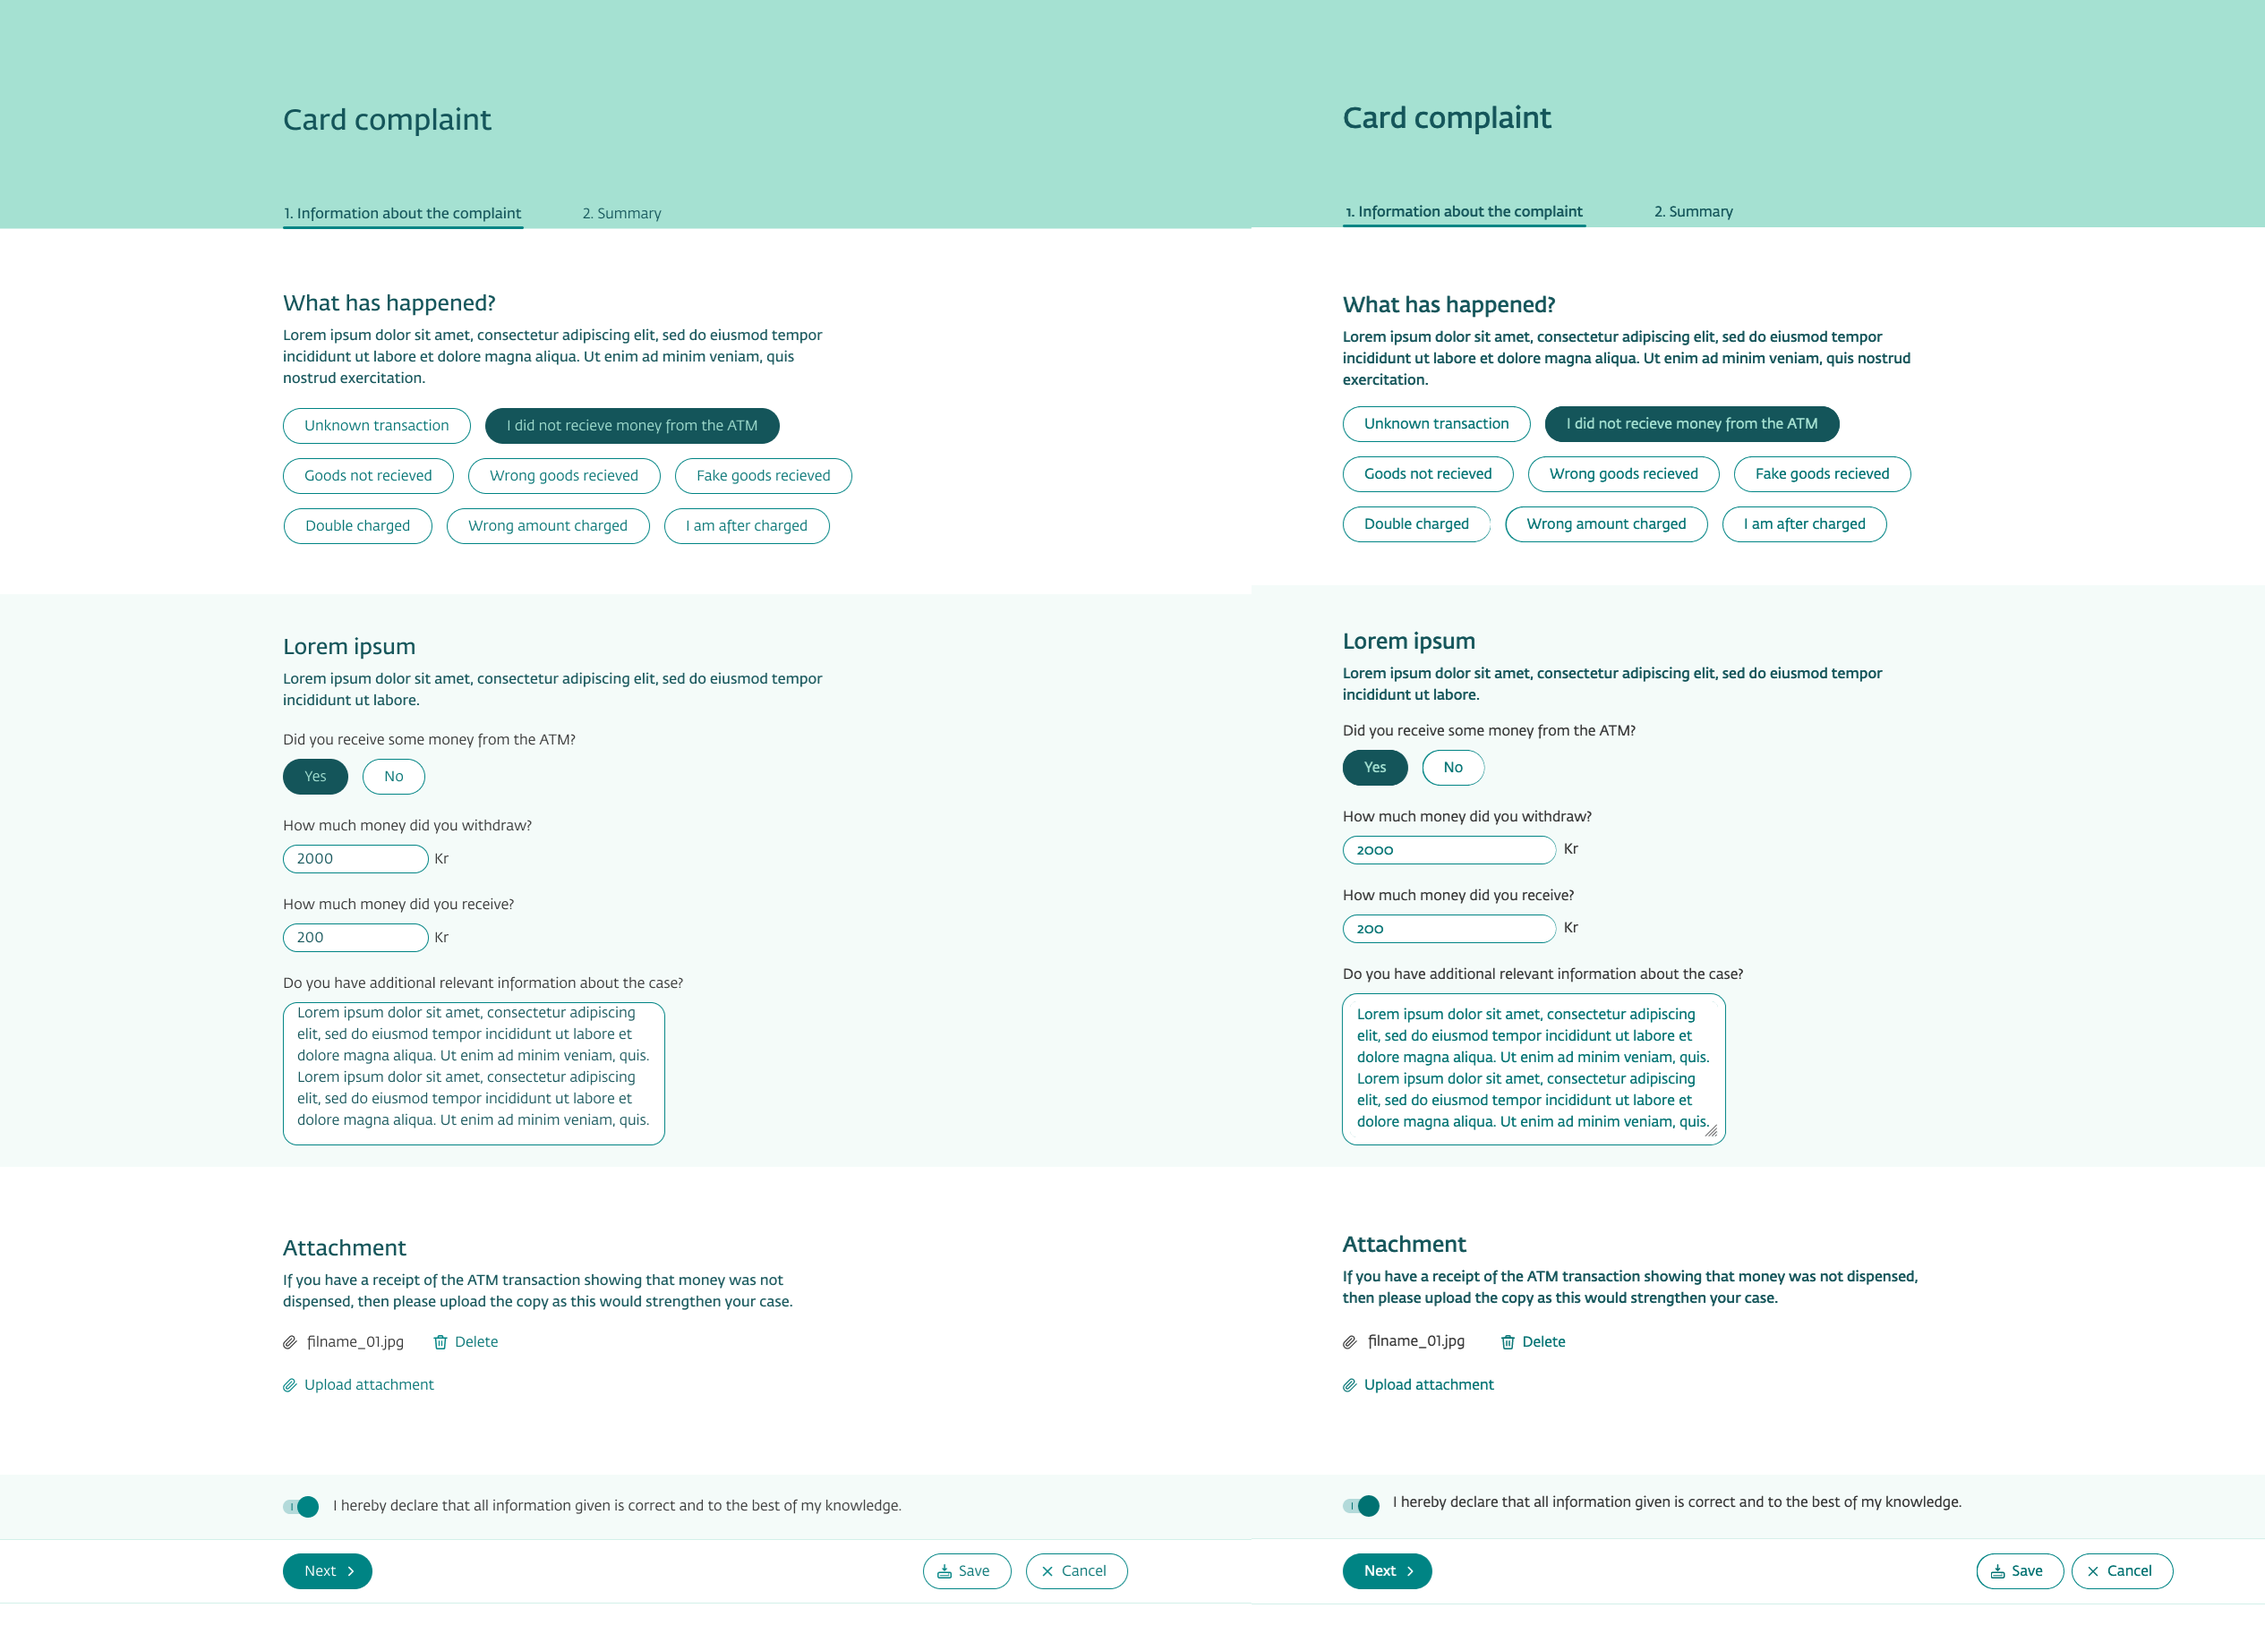
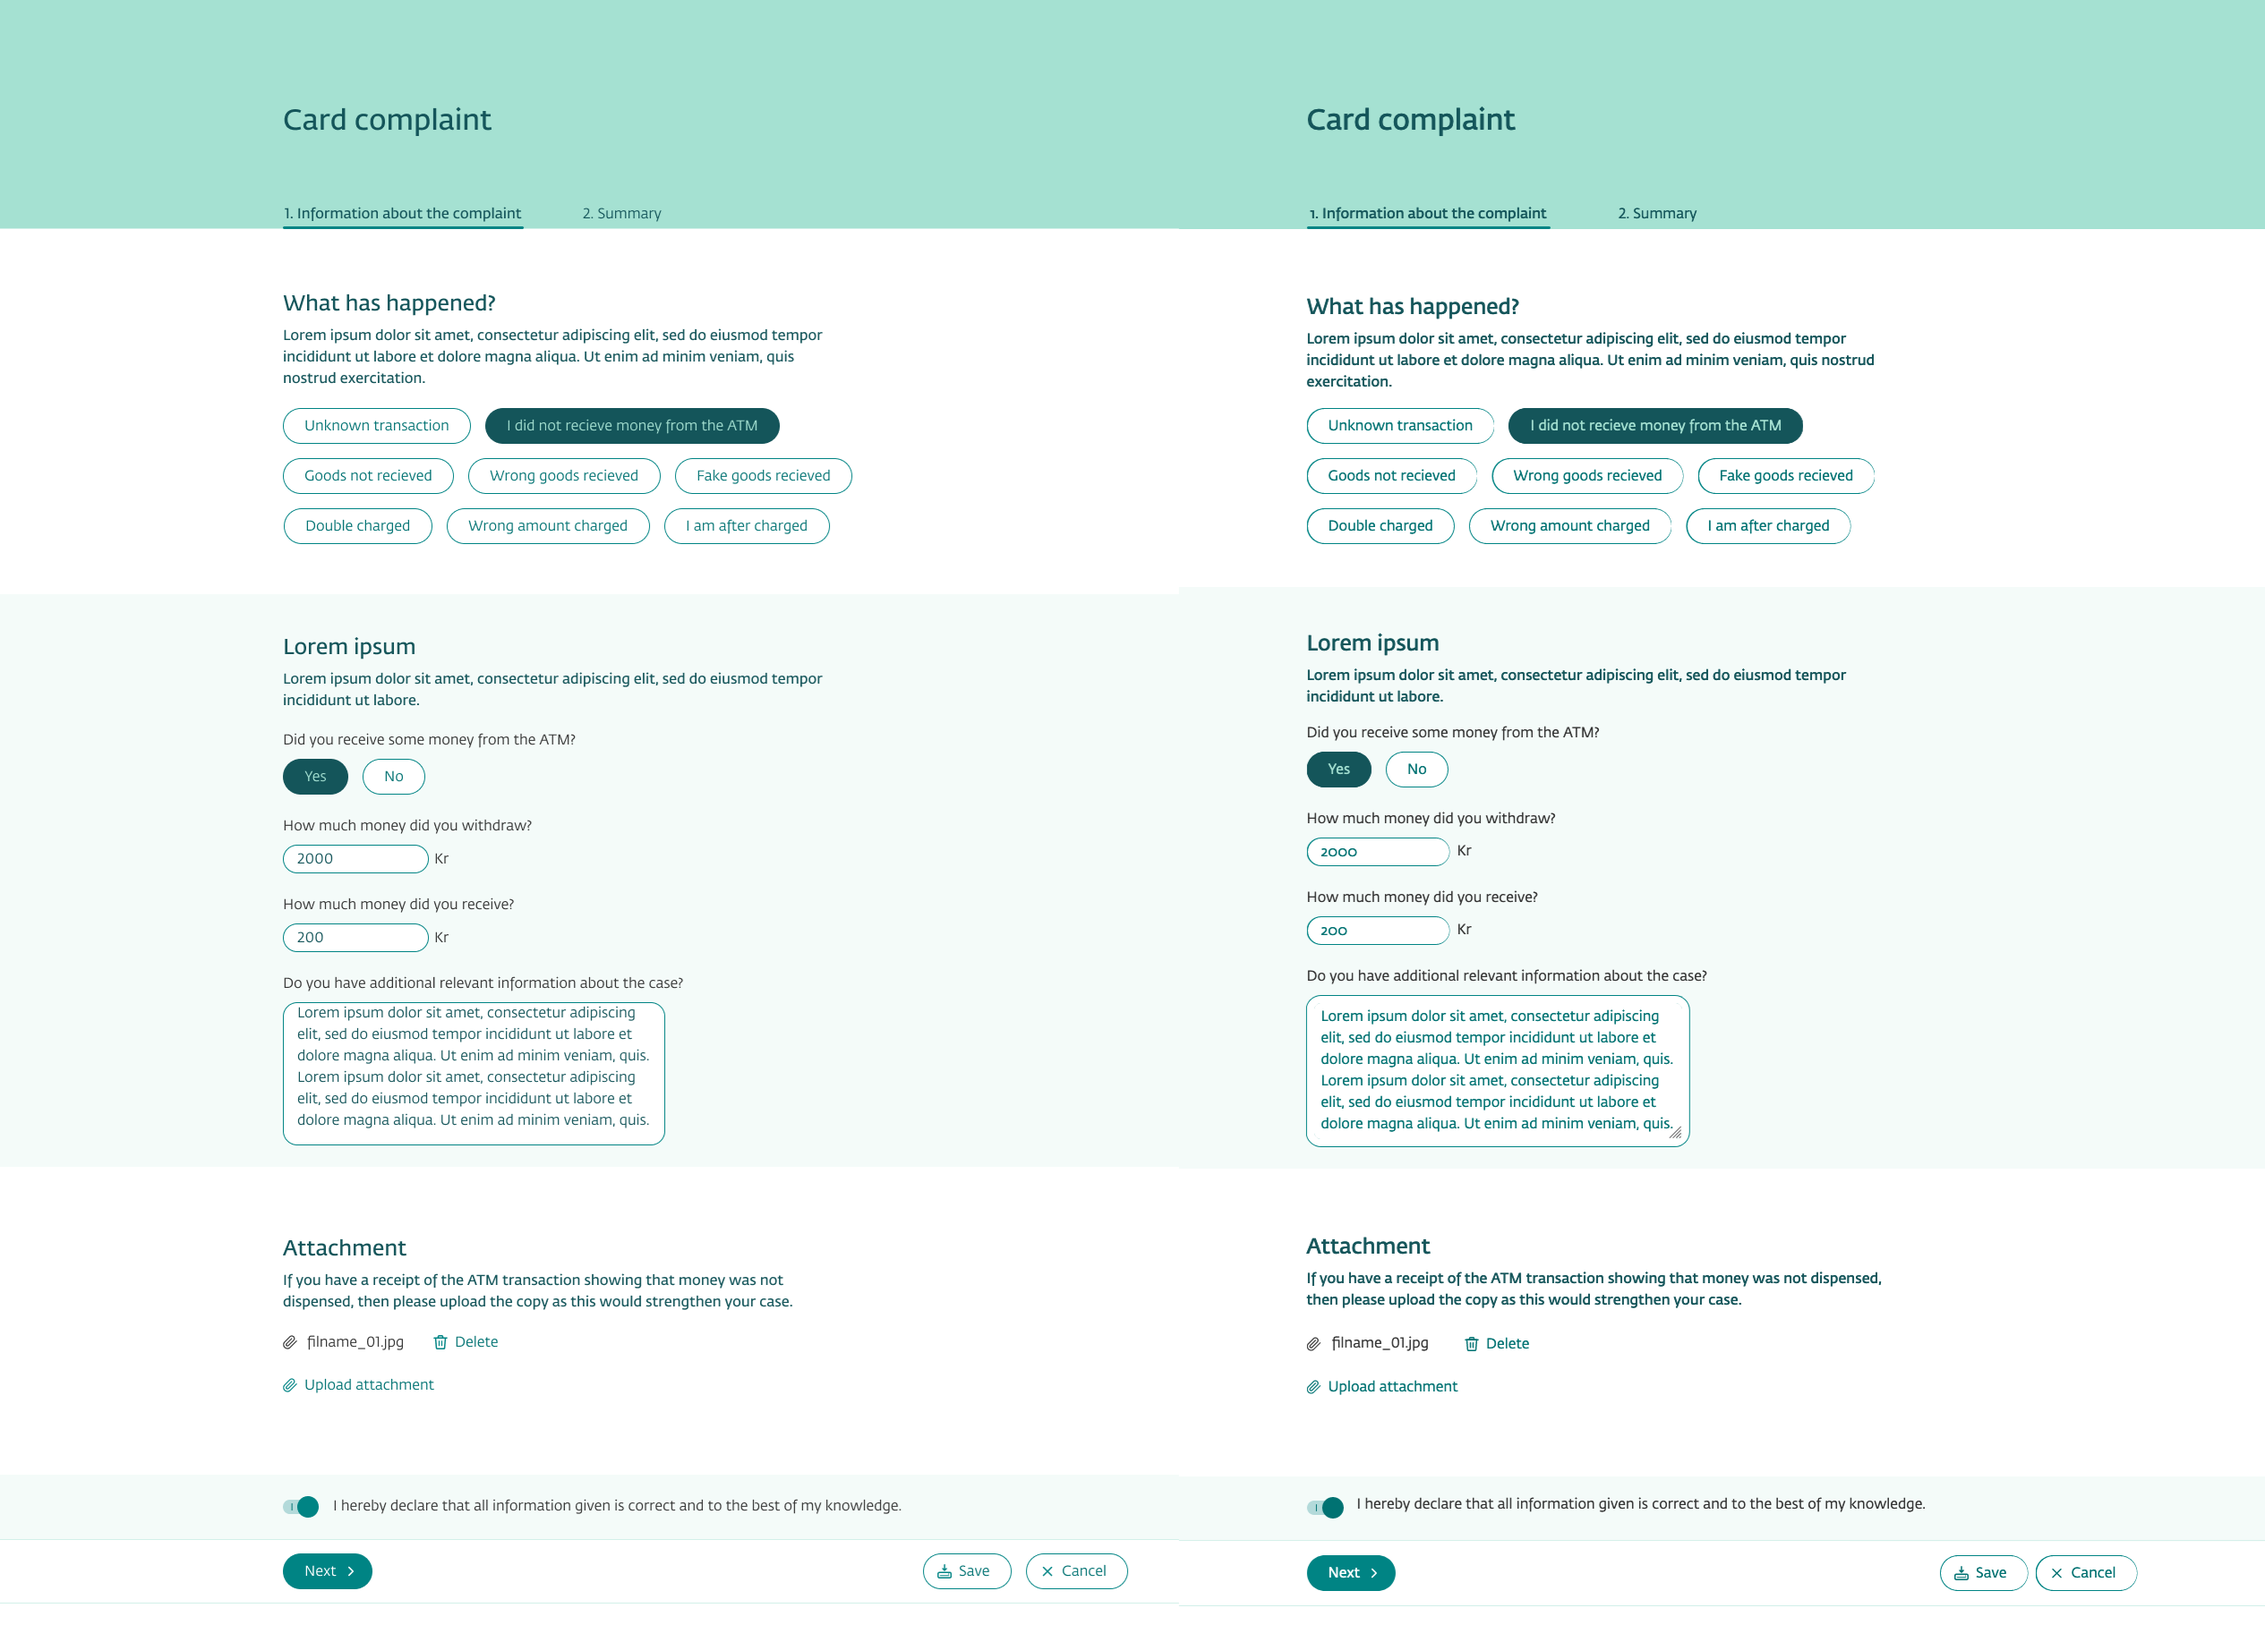
make input field width like UX

diff --git a/src/pages/form-demo-01.js b/src/pages/form-demo-01.js
@@ -45,6 +45,9 @@ const SectionWithSpacing = styled(Section)(SpacingHelper)
 // Visual helper to limit the width inside of our layout
 const WidthLimit = styled.div`
   max-width: 42rem;
+  .dnb-input {
+    max-width: 10rem;
+  }
 `
 
 // set the header hight
